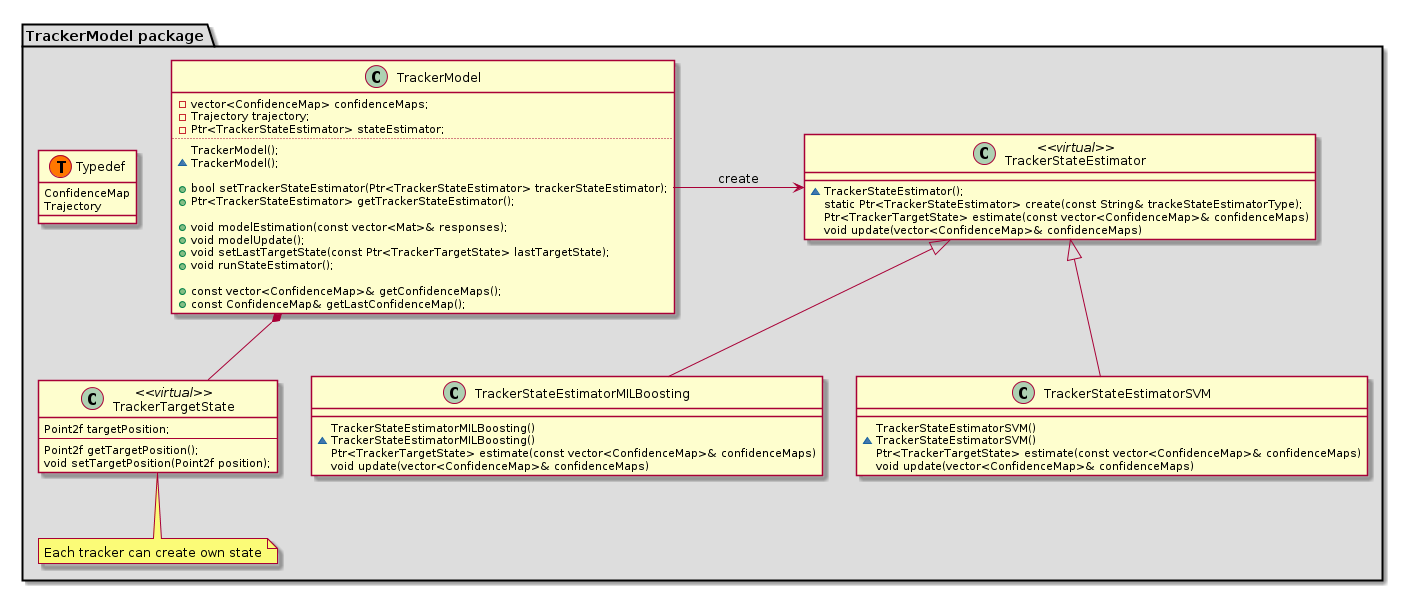
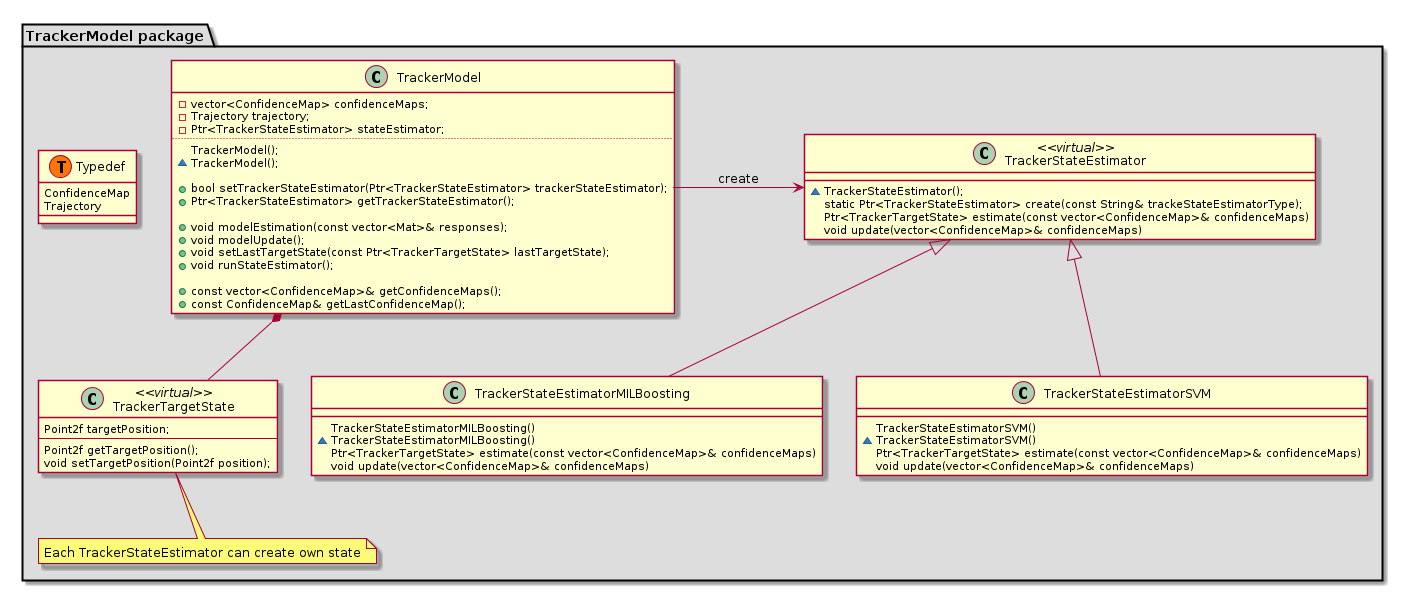
Updated the documentation

Changed region(s): [[0.0621, 0.802, 0.2797, 0.9505]]

diff --git a/modules/video/doc/common_interfaces_tracker_model.rst b/modules/video/doc/common_interfaces_tracker_model.rst
@@ -57,6 +57,12 @@ TrackerTargetState class::
      
      Point2f getTargetPosition() const;
      void setTargetPosition( const Point2f& position );
+     
+     int getTargetWidth() const;
+     void setTargetWidth( int width );
+     
+     int getTargetHeight() const;
+     void setTargetHeight( int height );
    
    };
 
@@ -260,15 +266,72 @@ TrackerStateEstimator based on Boosting
 
 TrackerStateEstimatorMILBoosting class::
 
-   class CV_EXPORTS_W TrackerStateEstimatorMILBoosting : public TrackerStateEstimator
-   {
-    public:
-     TrackerStateEstimatorMILBoosting( int numFeatures = 250 );
-     ~TrackerStateEstimatorMILBoosting();
-   
-     void setCurrentConfidenceMap( ConfidenceMap& confidenceMap );
-   };
-   
+	class CV_EXPORTS_W TrackerStateEstimatorMILBoosting : public TrackerStateEstimator
+	{
+	 public:
+	  class TrackerMILTargetState : public TrackerTargetState
+	  {
+	   ...
+	  };
+	  TrackerStateEstimatorMILBoosting( int numFeatures = 250 );
+	  ~TrackerStateEstimatorMILBoosting();
+
+	  void setCurrentConfidenceMap( ConfidenceMap& confidenceMap );
+	};
+
+TrackerStateEstimatorMILBoosting::TrackerMILTargetState
+-------------------------------------------------------
+
+Implementation of the target state for TrackerStateEstimatorMILBoosting
+
+.. ocv:class:: TrackerStateEstimatorMILBoosting::TrackerMILTargetState
+
+TrackerMILTargetState class::
+
+     class TrackerMILTargetState : public TrackerTargetState
+     {
+      public:
+      TrackerMILTargetState( const Point2f& position, int targetWidth, int targetHeight, bool foreground, const Mat& features );
+      ~TrackerMILTargetState(){};
+
+      void setTargetFg( bool foreground );
+      void setFeatures( const Mat& features );
+      bool isTargetFg() const;
+      Mat getFeatures() const;
+     };
+
+TrackerStateEstimatorMILBoosting::TrackerStateEstimatorMILBoosting::setTargetFg
+-------------------------------------------------------------------------------
+
+Set label: true for target foreground, false for background
+
+.. ocv:function::  TrackerStateEstimatorMILBoosting::TrackerStateEstimatorMILBoosting::setTargetFg( bool foreground )
+
+    :param foreground: Label for background/foreground
+    
+TrackerStateEstimatorMILBoosting::TrackerStateEstimatorMILBoosting::setFeatures
+-------------------------------------------------------------------------------
+
+Set the features extracted from :ocv:class:`TrackerFeatureSet`
+
+.. ocv:function::  TrackerStateEstimatorMILBoosting::TrackerStateEstimatorMILBoosting::setFeatures( const Mat& features )
+
+    :param features: The features extracted
+    
+TrackerStateEstimatorMILBoosting::TrackerStateEstimatorMILBoosting::isTargetFg
+------------------------------------------------------------------------------
+
+Get the label. Return true for target foreground, false for background
+
+.. ocv:function:: bool TrackerStateEstimatorMILBoosting::TrackerStateEstimatorMILBoosting::isTargetFg() const
+    
+TrackerStateEstimatorMILBoosting::TrackerStateEstimatorMILBoosting::getFeatures
+-------------------------------------------------------------------------------
+
+Get the features extracted
+
+.. ocv:function:: Mat TrackerStateEstimatorMILBoosting::TrackerStateEstimatorMILBoosting::setFeatures() const
+    
 TrackerStateEstimatorMILBoosting::TrackerStateEstimatorMILBoosting
 ------------------------------------------------------------------
 

diff --git a/modules/video/doc/common_interfaces_tracker.rst b/modules/video/doc/common_interfaces_tracker.rst
@@ -200,27 +200,6 @@ And add it in your Tracker : ::
    }
 
 
-You should define your TrackerTargetState based on your implementation. :ocv:class:`TrackerTargetState` base class has only the position, you can
-enrich it adding scale factor, width, height and target rotation.
-
-Example of creating specialized TrackerTargetState ``TrackerMILTargetState`` : ::
-
-   class TrackerMILTargetState : public TrackerTargetState
-   {
-    public:
-     TrackerMILTargetState( const Point2f& position, int targetWidth, int targetHeight, bool foreground, const Mat& HAARFeatures );
-     ~TrackerMILTargetState();
-     ...
-      
-    private:
-     int width;
-     int height;
-     bool isTarget;
-     Mat features;
-     ...
-     
-   };
-
 In the last step you should define the TrackerStateEstimator based on your implementation or you can use one of ready class as :ocv:class:`TrackerStateEstimatorMILBoosting`.
 It represent the statistical part of the model that estimates the most likely target state.  
 
@@ -228,6 +207,11 @@ Example of creating specialized TrackerStateEstimator ``TrackerStateEstimatorMIL
 
    class CV_EXPORTS_W TrackerStateEstimatorMILBoosting : public TrackerStateEstimator
    {
+    class TrackerMILTargetState : public TrackerTargetState
+	{
+	...
+	};
+	
     public:
      TrackerStateEstimatorMILBoosting( int numFeatures = 250 );
      ~TrackerStateEstimatorMILBoosting();
@@ -249,7 +233,28 @@ And add it in your TrackerModel : ::
 .. seealso::
 
    :ocv:class:`TrackerModel`, :ocv:class:`TrackerStateEstimatorMILBoosting`, :ocv:class:`TrackerTargetState`
-   
+
+
+During this step, you should define your TrackerTargetState based on your implementation. :ocv:class:`TrackerTargetState` base class has only the bounding box (upper-left position, width and height), you can
+enrich it adding scale factor, target rotation, etc.
+
+Example of creating specialized TrackerTargetState ``TrackerMILTargetState`` : ::
+
+   class TrackerMILTargetState : public TrackerTargetState
+   {
+    public:
+     TrackerMILTargetState( const Point2f& position, int targetWidth, int targetHeight, bool foreground, const Mat& features );
+     ~TrackerMILTargetState();
+     ...
+      
+    private:
+     bool isTarget;
+     Mat targetFeatures;
+     ...
+     
+   };
+
+ 
 Try it
 ......
 

diff --git a/modules/video/doc/tracker_algorithms.rst b/modules/video/doc/tracker_algorithms.rst
@@ -31,9 +31,6 @@ Implementation of TrackerMIL from :ocv:class:`Tracker`::
      void read( const FileNode& fn );
      void write( FileStorage& fs ) const;
    
-     static int getRandInt( const int min, const int max );
-     static float getRandFloat( const float min = 0, const float max = 1 );
-   
    };
 
 TrackerMIL::Params
@@ -68,28 +65,6 @@ Constructor
 .. ocv:function:: bool TrackerMIL::TrackerMIL( const TrackerMIL::Params &parameters = TrackerMIL::Params() )
 
     :param parameters: MIL parameters :ocv:struct:`TrackerMIL::Params`
-
-TrackerMIL::getRandInt
-----------------------
-
-Get random integer number in a range
-
-.. ocv:function:: int TrackerMIL::getRandInt( const int min, const int max )
-
-    :param min: min value in the range
-    
-    :param max: max value in the range
-    
-TrackerMIL::getRandInt
-----------------------
-
-Get random float number in a range
-
-.. ocv:function:: float TrackerMIL::getRandFloat( const float min = 0, const float max = 1 )
-
-    :param min: min value in the range
-    
-    :param max: max value in the range
 
 
 TrackerBoosting
